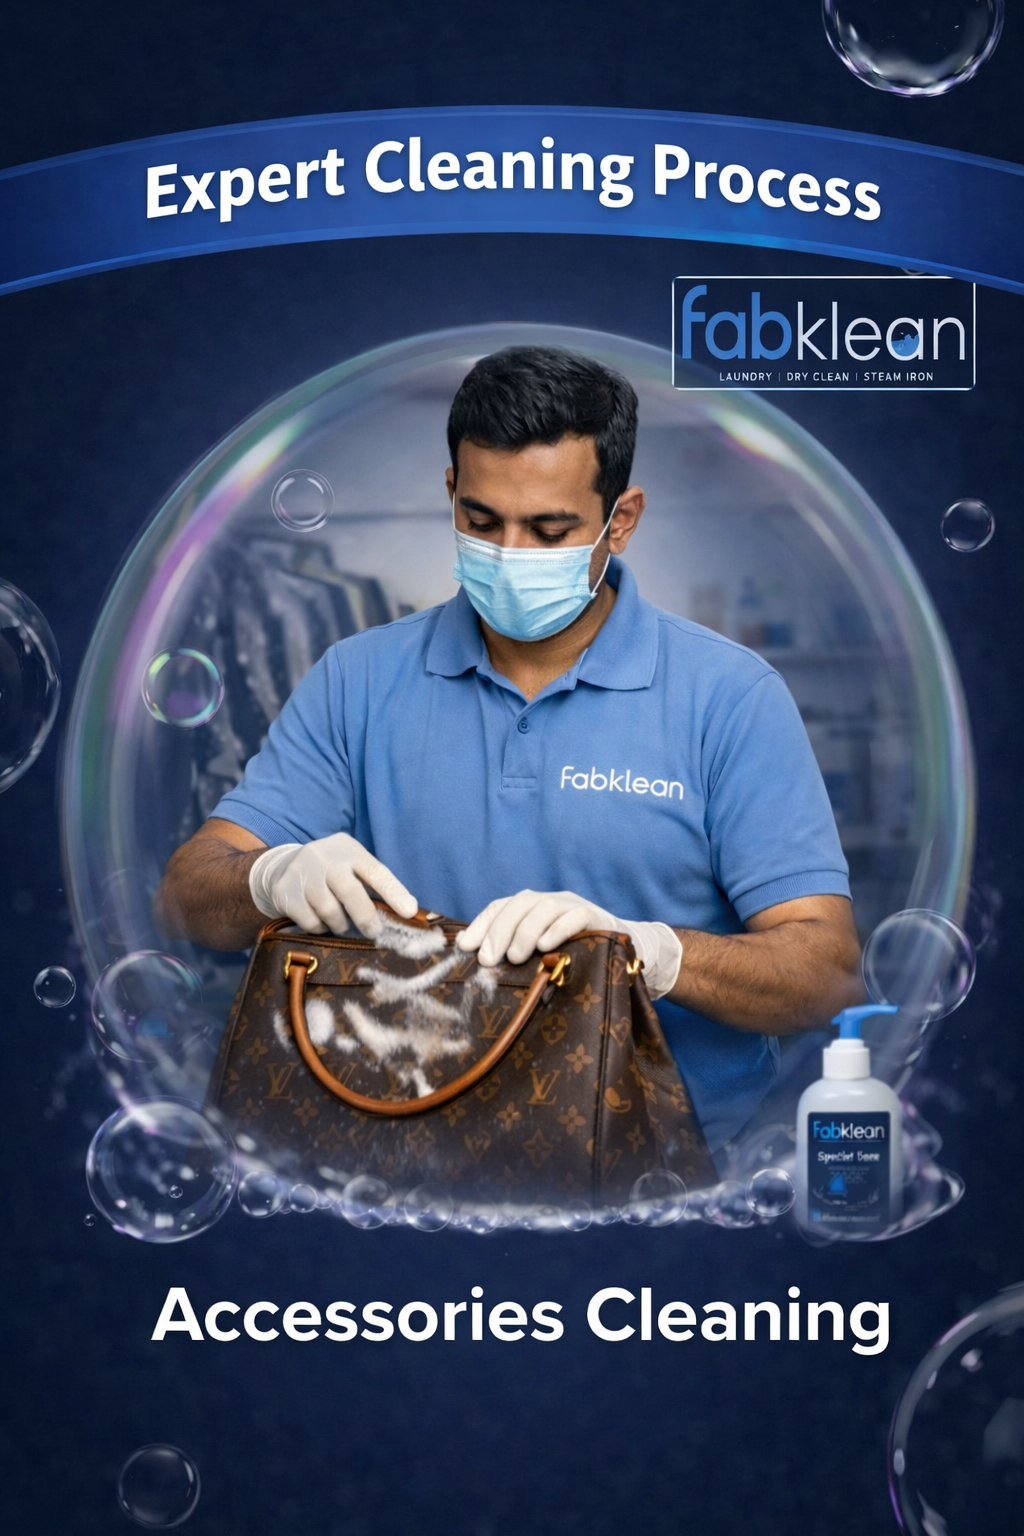
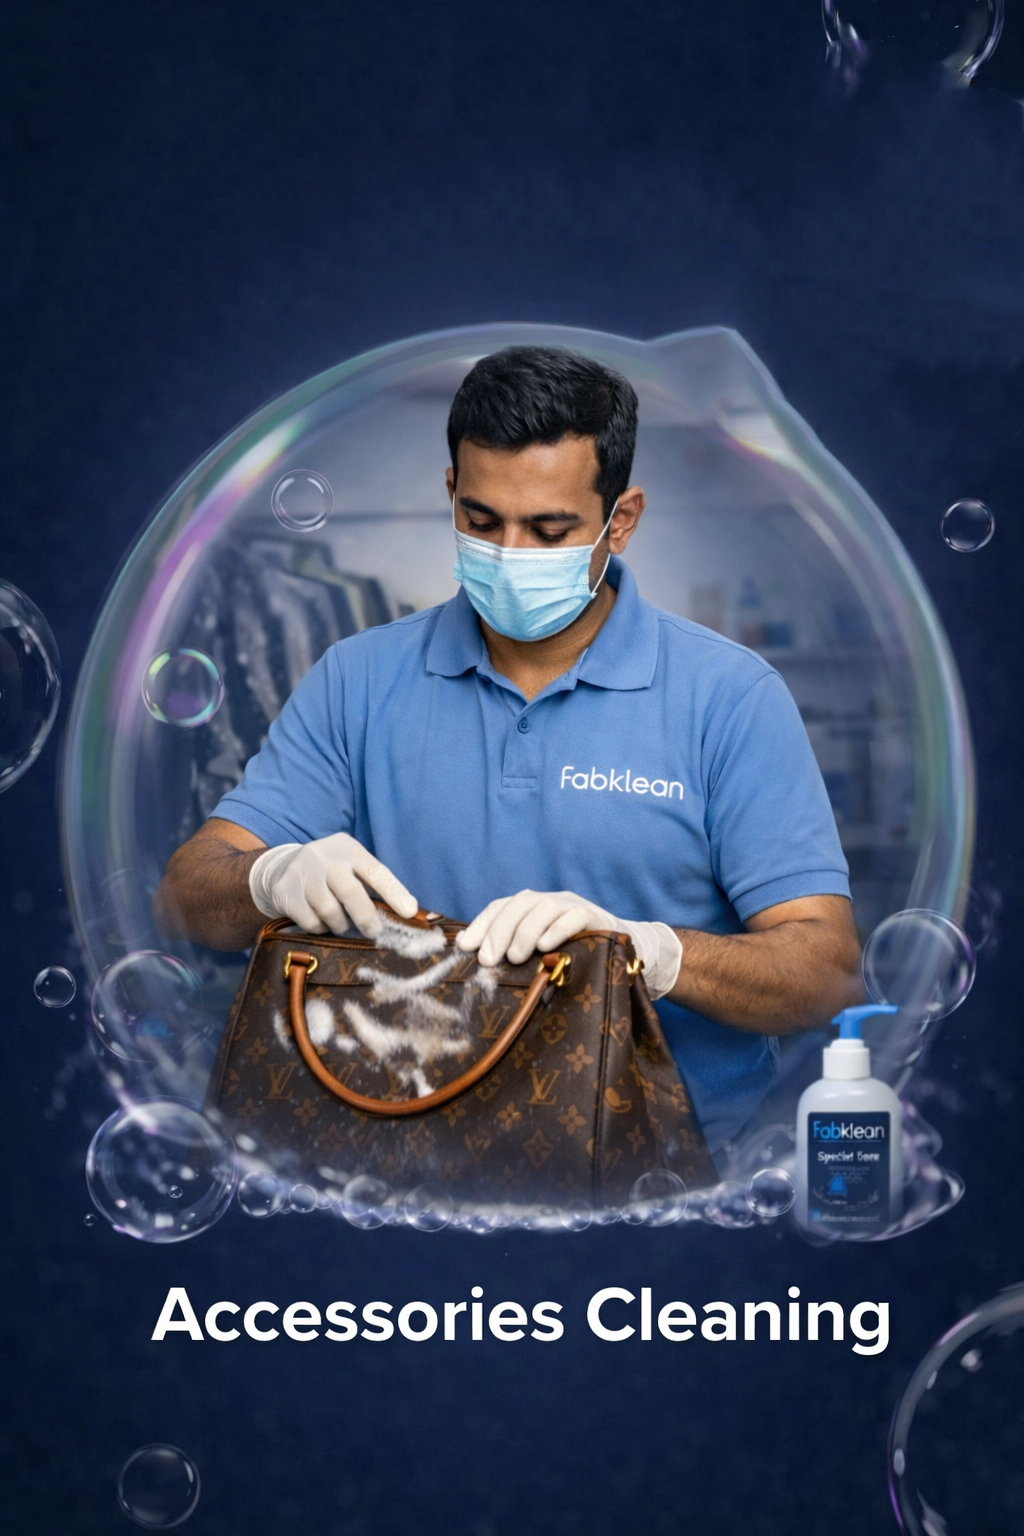
service page me image change

Changed region(s): [[0.0, 0.0312, 1.0, 0.3125], [0.9688, 0.9062, 1.0, 0.9688]]

diff --git a/css/style.css b/css/style.css
@@ -3740,7 +3740,7 @@ padding:30px;
 }
 
 .table-box{
-background:#  ;
+/* background:#  ; */
 color:white;
 border-radius:10px;
 overflow:hidden;

diff --git a/about.php b/about.php
@@ -217,30 +217,6 @@
             </div>
         </div>
     </section>
-<!-- <section class="goal-section">
-    <div class="container ">
-        <div class="goal-content text-center">
-            <div class="boxing" style="padding: 0px 185px;">
-                <h2 style="color: #051626; margin-bottom: 20px; font-weight: 600;">Our Goal</h2>
-                
-                <h3 style="color: #051626;">Delivering Quality Laundry Services</h3>
-                <p style="color: #ffffff;">
-                    At Fabklean, our goal is to provide <span></span> top-quality washing, dry cleaning, 
-                    and steam ironing services using advanced technology and premium cleaning solutions. 
-                    We ensure every garment is handled with care to maintain its freshness, fabric quality, and durability.
-                </p>
-                
-                <h3 style="color: #051626;">Affordable Pricing with Timely Delivery</h3>
-                <p style="color: #ffffff;">
-                    We are committed to offering reliable services at competitive prices while ensuring 
-                    on-time doorstep delivery. Our focus is to create a seamless and hassle-free experience 
-                    that builds long-term trust and satisfaction with every customer.
-                </p>
-            </div>
-        </div>
-
-    </div>
-</section> -->
 
 
 
@@ -294,55 +270,20 @@
     <!-- about section end -->
 
 
-    <!-- cta section -->
-    <section class="cta-section" style="background-image: url(images/home/cta.png);">
-        <div class="container">
-            <div class="row">
-                <div class="col-md-8 col-sm-12 col-xs-12 cta-column">
-                    <div class="cta-content">
-                        <div class="title"><h1>We Clean <br /> You Should Relax.</h1></div>
-                        <div class="text">
-                            <p>Lorem ipsum dolor sit amet, consectetur adipisicing elit, sed do eiusmod tempor incididunt ut labore et dolore magna aliqua. Ut enim ad minim veniam quis nostrud exercitation ullamco laboris nisi ut aliquip.ex ea commodo consequat. duis aute irure dolor in reprehenderit.in voluptate velit esse cillum dolore eu fugiat nulla pariatur excepteur sint occaecat cupidatat.</p>
-                        </div>
-                        <div class="video-area">
-                            <div class="button"><a href="#"
-   style="
-   display:inline-flex;
-   align-items:center;
-   justify-content:center;
-   padding:13px 40px 13px 40px;
-   background:#051626;
-   color:#ffffff;
-   text-decoration:none;
-   border-radius:50px;
-   font-weight:600;
-   font-size:14px;
-   transition:0.3s;
-   border:2px solid #051626;
-   text-align:center;
-   "
-   onmouseover="this.style.background='transparent'; this.style.color='#051626';"
-   onmouseout="this.style.background='#051626'; this.style.color='#ffffff';"
->CALCULATE SERVICE</a></div>
-                           
-                        </div>
-                    </div>
-                </div>
-            </div>
-        </div>
-    </section>
-    <!-- cta section end -->
+  
 
 
-    <!-- service section -->
-    <section class="service-section sec-pad">
-        <div class="container">
+       <!-- service section -->
+    <section class="service-section" id="services">
+        <div class="container #our-service.php">
             <div class="service-title centred">
                 <div class="title-top">Our Services</div>
-                <div class="sec-title"><h2>What We Offer</h2></div>
+                <div class="sec-title">
+                    <h2>What We Offer</h2>
+                </div>
             </div>
             <div class="row">
-                <div class="col-md-4 col-sm-6 col-xs-12 service-column">
+                <div class="col-md-3 col-sm-6 col-xs-12 service-column">
                     <div class="single-item">
                         <div class="single-item-overlay">
                             <div class="img-box">
@@ -350,43 +291,45 @@
                                 <div class="overlay">
                                     <div class="inner-box">
                                         <ul class="content">
-                                            <li><a href="service-details.html"><i class="fa fa-link"></i></a></li>
+                                            <li><a href="laundry-service.php"><i class="fa fa-link"></i></a></li>
                                         </ul>
-                                    </div> 
+                                    </div>
                                 </div>
                             </div>
                         </div>
                         <div class="lower-content">
-                            <h3><a href="service-details.html">Laundry Services</a></h3>
-                            <div class="text">
-                               We provide professional laundry, dry cleaning, and ironing services to keep your clothes fresh, clean, and perfectly maintained every day.
+                            <h3><a href="laundry-service.php">Laundry</a></h3>
+                            <div class="text">We provide professional laundry, dry cleaning, and ironing services 
+                                to keep your clothes fresh, clean, and perfectly maintained every day.
                             </div>
                         </div>
                     </div>
+                    
                 </div>
-                <div class="col-md-4 col-sm-6 col-xs-12 service-column">
-                    <div class="single-item">
-                        <div class="single-item-overlay">
-                            <div class="img-box">
-                                <a href="#"><img src="images/service/2.png" alt=""></a>
-                                <div class="overlay">
-                                    <div class="inner-box">
-                                        <ul class="content">
-                                            <li><a href="service-details.html"><i class="fa fa-link"></i></a></li>
-                                        </ul>
-                                    </div> 
+                <div class="col-md-3 col-sm-6 col-xs-12 service-column">
+                        
+                        <div class="single-item">
+                            <div class="single-item-overlay">
+                                <div class="img-box">
+                                    <a href="#"><img src="images/service/2.png" alt=""></a>
+                                    <div class="overlay">
+                                        <div class="inner-box">
+                                            <ul class="content">
+                                                <li><a href="dry-cleaning-service.php"><i class="fa fa-link"></i></a></li>
+                                            </ul>
+                                        </div>
+                                    </div>
                                 </div>
                             </div>
-                        </div>
-                        <div class="lower-content">
-                            <h3><a href="service-details.html">Dry Cleaning (Clothes)</a></h3>
-                            <div class="text">
-                                Premium dry cleaning service for clothes to remove stains and keep your garments looking fresh and new.
+                            <div class="lower-content">
+                                <h3><a href="dry-cleaning-service.php">Dry Cleaning</a></h3>
+                                <div class="text">Premium dry cleaning service for clothes to 
+                                    remove stains and keep your garments looking fresh and new.
+                                </div>
+                                </div>
                             </div>
-                        </div>
-                    </div>
                 </div>
-                <div class="col-md-4 col-sm-6 col-xs-12 service-column">
+                <div class="col-md-3 col-sm-6 col-xs-12 service-column">
                     <div class="single-item">
                         <div class="single-item-overlay">
                             <div class="img-box">
@@ -394,44 +337,22 @@
                                 <div class="overlay">
                                     <div class="inner-box">
                                         <ul class="content">
-                                            <li><a href="service-details.html"><i class="fa fa-link"></i></a></li>
+                                            <li><a href="leather-cleaning-service.php"><i class="fa fa-link"></i></a></li>
                                         </ul>
-                                    </div> 
+                                    </div>
                                 </div>
                             </div>
                         </div>
                         <div class="lower-content">
-                            <h3><a href="service-details.html">Dry Cleaning – Accessories</a></h3>
-                            <div class="text">
-                                Professional accessories dry cleaning service for bags, shoes, ties, 
-                                gloves, and other items to keep them fresh, clean, and well maintained.
+                            <h3><a href="leather-cleaning-service.php"> Leather Cleaning</a></h3>
+                            <div class="text">Professional dry cleaning for accessories like bags, shoes, ties, 
+                                gloves, and soft toys to keep them fresh, clean, and well maintained.
                             </div>
                         </div>
                     </div>
+                    
                 </div>
-                <div class="col-md-4 col-sm-6 col-xs-12 service-column">
-                    <div class="single-item">
-                        <div class="single-item-overlay">
-                            <div class="img-box">
-                                <a href="#"><img src="images/service/4.png" alt=""></a>
-                                <div class="overlay">
-                                    <div class="inner-box">
-                                        <ul class="content">
-                                            <li><a href="service-details.html"><i class="fa fa-link"></i></a></li>
-                                        </ul>
-                                    </div> 
-                                </div>
-                            </div>
-                        </div>
-                        <div class="lower-content">
-                            <h3><a href="service-details.html">Curtain Dry Cleaning Service</a></h3>
-                            <div class="text">
-                                Professional curtain dry cleaning service to remove dust, stains, and odors while keeping your curtains fresh, clean, and well maintained.
-                            </div>
-                        </div>
-                    </div>
-                </div>
-                <div class="col-md-4 col-sm-6 col-xs-12 service-column">
+                <div class="col-md-3 col-sm-6 col-xs-12 service-column">
                     <div class="single-item">
                         <div class="single-item-overlay">
                             <div class="img-box">
@@ -439,21 +360,49 @@
                                 <div class="overlay">
                                     <div class="inner-box">
                                         <ul class="content">
-                                            <li><a href="service-details.html"><i class="fa fa-link"></i></a></li>
+                                            <li><a href="curtain-dry-cleaning-service.php"><i class="fa fa-link"></i></a></li>
                                         </ul>
-                                    </div> 
+                                    </div>
                                 </div>
                             </div>
                         </div>
                         <div class="lower-content">
-                            <h3><a href="service-details.html">Shoe Cleaning Service</a></h3>
+                            <h3><a href="curtain-dry-cleaning-service.php">Curtain Dry Cleaning</a></h3>
                             <div class="text">
-                                Professional shoe cleaning service to remove dirt, stains, and odors while restoring the fresh look of your footwear.
+                                Professional curtain dry cleaning service to remove dust, stains, 
+                                and odors while maintaining the fabric quality and freshness.
                             </div>
                         </div>
                     </div>
                 </div>
-                <div class="col-md-4 col-sm-6 col-xs-12 service-column">
+               
+            </div>
+            <div class="row">
+                <div class="col-md-3 col-sm-6 col-xs-12 service-column">
+                    <div class="single-item">
+                        <div class="single-item-overlay">
+                            <div class="img-box">
+                                <a href="#"><img src="images/service/4.png" alt=""></a>
+                                <div class="overlay">
+                                    <div class="inner-box">
+                                        <ul class="content">
+                                            <li><a href="shoe-cleaning-service.php"><i class="fa fa-link"></i></a></li>
+                                        </ul>
+                                    </div>
+                                </div>
+                            </div>
+                        </div>
+                        <div class="lower-content">
+                            <h3><a href="shoe-cleaning-service.php">Shoe Cleaning</a></h3>
+                            <div class="text">
+                                Professional shoe cleaning service to remove dirt, stains, 
+                                and odors while restoring the fresh look of your footwear.
+                            </div>
+                        </div>
+                    </div>
+                </div>
+                
+                <div class="col-md-3 col-sm-6 col-xs-12 service-column">
                     <div class="single-item">
                         <div class="single-item-overlay">
                             <div class="img-box">
@@ -461,22 +410,74 @@
                                 <div class="overlay">
                                     <div class="inner-box">
                                         <ul class="content">
-                                            <li><a href="service-details.html"><i class="fa fa-link"></i></a></li>
+                                            <li><a href="steam-ironing-service.php"><i class="fa fa-link"></i></a></li>
                                         </ul>
-                                    </div> 
+                                    </div>
                                 </div>
                             </div>
                         </div>
                         <div class="lower-content">
-                            <h3><a href="service-details.html">Steam Ironing Service</a></h3>
+                            <h3><a href="steam-ironing-service.php">Steam Ironing </a></h3>
                             <div class="text">
-                                Professional steam ironing service to remove wrinkles and keep your clothes perfectly pressed, neat, and ready to wear.
+                                Professional steam ironing service to remove wrinkles and keep 
+                                your clothes perfectly pressed and ready to wear.
+                            </div>
+                        </div>
+                    </div>
+                </div>
+                <!-- 7. Accessories Cleaning (NEW) -->
+                <div class="col-md-3 col-sm-6 col-xs-12 service-column">
+                    <div class="single-item">
+                        <div class="single-item-overlay">
+                            <div class="img-box">
+                                <a href="#"><img src="images/service/7a.png" alt=""></a>
+                                <div class="overlay">
+                                    <div class="inner-box">
+                                        <ul class="content">
+                                            <li><a href="steam-ironing-service.php"><i class="fa fa-link"></i></a></li>
+                                        </ul>
+                                    </div>
+                                </div>
+                            </div>
+                        </div>
+                        <div class="lower-content">
+                            <h3><a href="steam-ironing-service.php">Accessories Cleaning </a></h3>
+                            <div class="text">
+                                At Fabklean, we take special care of your accessories by offering professional cleaning and steam ironing services that keep them fresh, spotless, 
+                                and perfectly maintained. 
+                            </div>
+                        </div>
+                    </div>
+                </div>
+                <!-- 8. Saree & Lehenga (NEW) -->
+                <div class="col-md-3 col-sm-6 col-xs-12 service-column">
+                    <div class="single-item">
+                        <div class="single-item-overlay">
+                            <div class="img-box">
+                                <a href="#"><img src="images/service/9a.png" alt=""></a>
+                                <div class="overlay">
+                                    <div class="inner-box">
+                                        <ul class="content">
+                                            <li><a href="steam-ironing-service.php"><i class="fa fa-link"></i></a></li>
+                                        </ul>
+                                    </div>
+                                </div>
+                            </div>
+                        </div>
+                        <div class="lower-content">
+                            <h3><a href="steam-ironing-service.php">Saree & Lehenga Cleaning</a></h3>
+                            <div class="text">
+                                At Fabklean, we specialize in the careful cleaning and steam ironing of sarees and lehengas, ensuring every piece looks elegant, fresh, 
+                                and perfectly maintained.
                             </div>
                         </div>
                     </div>
                 </div>
             </div>
         </div>
+        
+        
+        
     </section>
     <!-- service section end -->
 

diff --git a/index.php b/index.php
@@ -419,7 +419,7 @@
                     <div class="single-item">
                         <div class="single-item-overlay">
                             <div class="img-box">
-                                <a href="#"><img src="images/service/6.png" alt=""></a>
+                                <a href="#"><img src="images/service/7a.png" alt=""></a>
                                 <div class="overlay">
                                     <div class="inner-box">
                                         <ul class="content">
@@ -443,7 +443,7 @@
                     <div class="single-item">
                         <div class="single-item-overlay">
                             <div class="img-box">
-                                <a href="#"><img src="images/service/6.png" alt=""></a>
+                                <a href="#"><img src="images/service/9a.png" alt=""></a>
                                 <div class="overlay">
                                     <div class="inner-box">
                                         <ul class="content">
